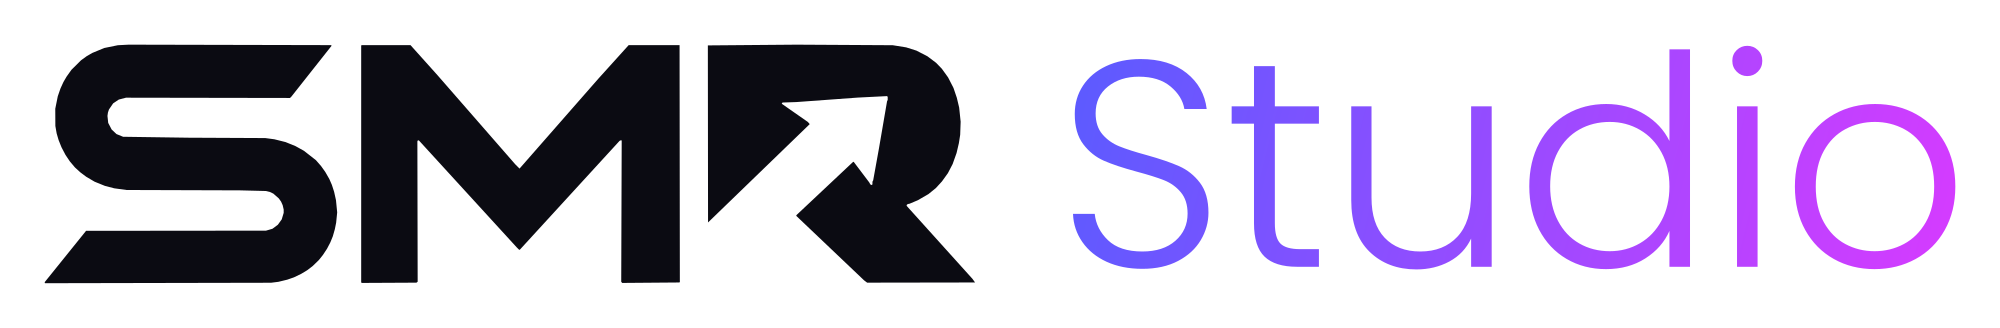
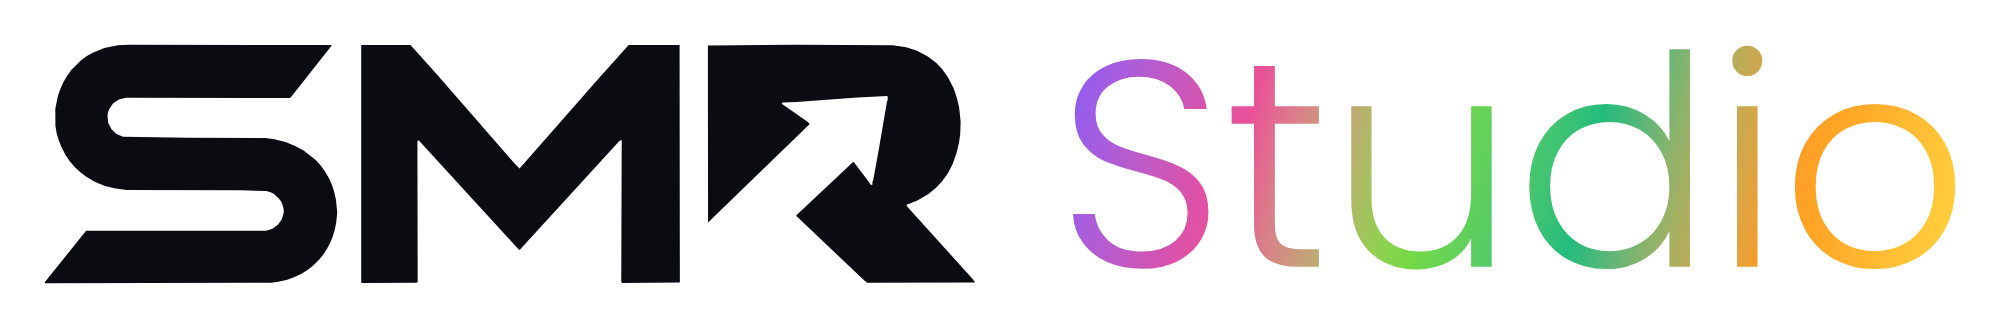
SMR Studio wordmark: Studio fades through all three brand gradients
Claude-Session: https://claude.ai/code/session_01YJ1z4vHF3XLVwcpzAtDnW9

Changed region(s): [[0.527, 0.122, 0.992, 0.8232]]

diff --git a/.github/tools/brand_wordmarks.py b/.github/tools/brand_wordmarks.py
@@ -6,7 +6,7 @@ import re
 F=TTFont('/usr/share/fonts/truetype/google-fonts/Poppins-Light.ttf'); gs=F.getGlyphSet(); cmap=F.getBestCmap(); upm=F['head'].unitsPerEm
 mark=open('/home/claude/smr-website/assets/smr-mark.svg').read()
 md=re.search(r' d="([^"]+)"',mark).group(1)
-WORDS={'digital':('Digital','#5b5bff','#d63bff'),'graphics':('Graphics','#7bdc3c','#10b981'),'marketing':('Marketing','#ff3d8b','#ff8a3d'),'plates':('Plates','#ffd23f','#ff7a2f'),'player':('Player','#5b5bff','#d63bff'),'studio':('Studio','#5b5bff','#d63bff'),'admin':('Admin','#5b5bff','#d63bff'),'printing':('Printing','#7bdc3c','#10b981')}
+WORDS={'digital':('Digital','#5b5bff','#d63bff'),'graphics':('Graphics','#7bdc3c','#10b981'),'marketing':('Marketing','#ff3d8b','#ff8a3d'),'plates':('Plates','#ffd23f','#ff7a2f'),'player':('Player','#5b5bff','#d63bff'),'studio':('Studio','SPECTRUM',''),'admin':('Admin','#5b5bff','#d63bff'),'printing':('Printing','#7bdc3c','#10b981')}
 EM=240.0   # word size in mark units (mark is 1000 x 256.4 = 76 x 19.5 px at 24 px text)
 s=EM/upm*(19.5/ (EM/24*19.5/ (1000*19.5/76/ (EM/24))) ) if False else None
 # mark px->units: 76px = 1000 units -> 1px = 13.158 units; text 24px = 315.8 units
@@ -25,6 +25,27 @@ def word(txt):
         if bp.bounds: a,b,c,e=bp.bounds; xmin=min(xmin,a);ymin=min(ymin,b);xmax=max(xmax,c);ymax=max(ymax,e)
         x+=hm[gn][0]*sc
     return d,(xmin,ymin,xmax,ymax)
+# SPECTRUM = all three brand gradients in one smooth diagonal fade (owner 28 Nov): Digital purple→pink, Graphics lime→emerald, Marketing orange→yellow, mixed in OKLab so the joins stay clean
+def spec(n=24):
+  import math
+  C=['#8b5cf6','#ec4899','#7bdc3c','#10b981','#ff9a1f','#ffd23f']
+  def lin(c): c/=255; return c/12.92 if c<=.04045 else ((c+.055)/1.055)**2.4
+  def dl(c): return 255*(12.92*c if c<=.0031308 else 1.055*c**(1/2.4)-.055)
+  def tolab(h):
+    r,g,b=[lin(int(h[i:i+2],16)) for i in (1,3,5)]
+    l=.4122214708*r+.5363325363*g+.0514459929*b; m=.2119034982*r+.6806995451*g+.1073969566*b; s_=.0883024619*r+.2817188376*g+.6299787005*b
+    l,m,s_=[x**(1/3) for x in (l,m,s_)]
+    return (.2104542553*l+.7936177850*m-.0040720468*s_,1.9779984951*l-2.4285922050*m+.4505937099*s_,.0259040371*l+.7827717662*m-.8086757660*s_)
+  def tohex(L,a,b):
+    l=(L+.3963377774*a+.2158037573*b)**3; m=(L-.1055613458*a-.0638541728*b)**3; s_=(L-.0894841775*a-1.2914855480*b)**3
+    r=4.0767416621*l-3.3077115913*m+.2309699292*s_; g=-1.2684380046*l+2.6097574011*m-.3413193965*s_; bb=-.0041960863*l-.7034186147*m+1.7076147010*s_
+    return '#'+''.join('%02x'%max(0,min(255,round(dl(max(0,min(1,v)))))) for v in (r,g,bb))
+  P=[tolab(c) for c in C]; out=''
+  for i in range(n+1):
+    t=i/n*(len(C)-1); k=min(int(t),len(C)-2); f=t-k
+    L,a,b=[P[k][j]+(P[k+1][j]-P[k][j])*f for j in range(3)]
+    out+=f'<stop offset="{i/n:.3f}" stop-color="{tohex(L,a,b)}"/>'
+  return out
 for key,(txt,c1,c2) in WORDS.items():
     d,(x0,y0,x1,y1)=word(txt)
     ox=1000+gap-x0; oy=base   # text baseline at y=base (mark spans 0..256.4)
@@ -34,7 +55,7 @@ for key,(txt,c1,c2) in WORDS.items():
     for variant,mfill in (('',' fill="#fff"'),('-dark',' fill="#0b0b12"')):
         svg=f'''<svg xmlns="http://www.w3.org/2000/svg" viewBox="{vb}" role="img" aria-label="SMR {txt}">
 <!-- SMR {txt} wordmark: mark + Poppins Light outlined, descender included (the g is never clipped). Do not retype the word as live text. -->
-<defs><linearGradient id="g" gradientUnits="userSpaceOnUse" x1="{x0:.0f}" y1="{y0:.0f}" x2="{x1:.0f}" y2="{y1*0.35:.0f}"><stop offset="0" stop-color="{c1}"/><stop offset="1" stop-color="{c2}"/></linearGradient></defs>
+<defs><linearGradient id="g" gradientUnits="userSpaceOnUse" x1="{x0:.0f}" y1="{y0:.0f}" x2="{x1:.0f}" y2="{y1*0.35:.0f}">{spec() if c1=="SPECTRUM" else f'<stop offset="0" stop-color="{c1}"/><stop offset="1" stop-color="{c2}"/>'}</linearGradient></defs>
 <path{mfill} fill-rule="evenodd" d="{md}"/>
 <path fill="url(#g)" transform="translate({ox:.2f} {oy:.2f})" d="{d}"/>
 </svg>'''

diff --git a/CLAUDE.md b/CLAUDE.md
@@ -9,7 +9,7 @@ Owner: Summar (SMR Graphics / SMR Digital / SMR Plates, Luton). He edits the sit
 - Dark theme, mobile-first. Brand gradient: Graphics lime→emerald (#7bdc3c→#10b981, owner 28 Nov; was blue→purple), Digital purple→pink, Marketing pink→orange, Plates yellow→orange. Fonts: Sora (headings), Manrope (body), Poppins light (logo word). Logo = white SMR mark with the brand word beside it in the brand gradient (header: Digital/Graphics/Marketing/Plates, slides to the new word on tab switch; intro splash: mark + Graphics → Marketing → Digital in each gradient).
 
 ## Brand wordmarks: the g must never be cut off (owner rule, 22 Nov)
-- Ready-made logos in `assets/brand/`: smr-digital / smr-graphics / smr-marketing / smr-plates / smr-player / smr-studio / smr-printing (lime→emerald, like Graphics), each as `.svg` (white mark, for dark backgrounds), `-dark.svg` (black mark, for light backgrounds) and a 2000px transparent `.png` of each. The word is outlined Poppins Light in its brand gradient with the full descender inside the picture, so the g in Digital, Graphics, Marketing and Player can't be clipped. Live: smrgraphics.co.uk/assets/brand/smr-digital.svg etc. The capital letter (D, G, M, P) is centred exactly on the SMR mark's centre line, and every picture has clear space round the tallest letter and the g/p/y tails. Rebuild with .github/tools/brand_wordmarks.py (fontTools over Poppins-Light.ttf + assets/smr-mark.svg) if a word is added.
+- Ready-made logos in `assets/brand/`: smr-digital / smr-graphics / smr-marketing / smr-plates / smr-player / smr-studio / smr-printing (lime→emerald, like Graphics), each as `.svg` (white mark, for dark backgrounds), `-dark.svg` (black mark, for light backgrounds) and a 2000px transparent `.png` of each. The word is outlined Poppins Light in its brand gradient with the full descender inside the picture, so the g in Digital, Graphics, Marketing and Player can't be clipped. Live: smrgraphics.co.uk/assets/brand/smr-digital.svg etc. The capital letter (D, G, M, P) is centred exactly on the SMR mark's centre line, and every picture has clear space round the tallest letter and the g/p/y tails. Studio (umbrella brand SMR Studio, owner 28 Nov) fades through all three brand gradients in one smooth diagonal: purple→pink→lime→emerald→orange→yellow (SPECTRUM in brand_wordmarks.py, mixed in OKLab); use it wherever "Studio" appears. Rebuild with .github/tools/brand_wordmarks.py (fontTools over Poppins-Light.ttf + assets/smr-mark.svg) if a word is added.
 - In any page, graphic, video or document (any chat), use these files instead of typing "SMR Digital" etc. as live text. If the word must be live text (an animation), use line-height ≥ 1.3, never overflow:hidden or a tight box round it without padding-bottom ≥ .15em, and check a screenshot zoomed in on the g before publishing. Never clip a background-clip:text word with line-height:1.
 
 ## Badge animation
